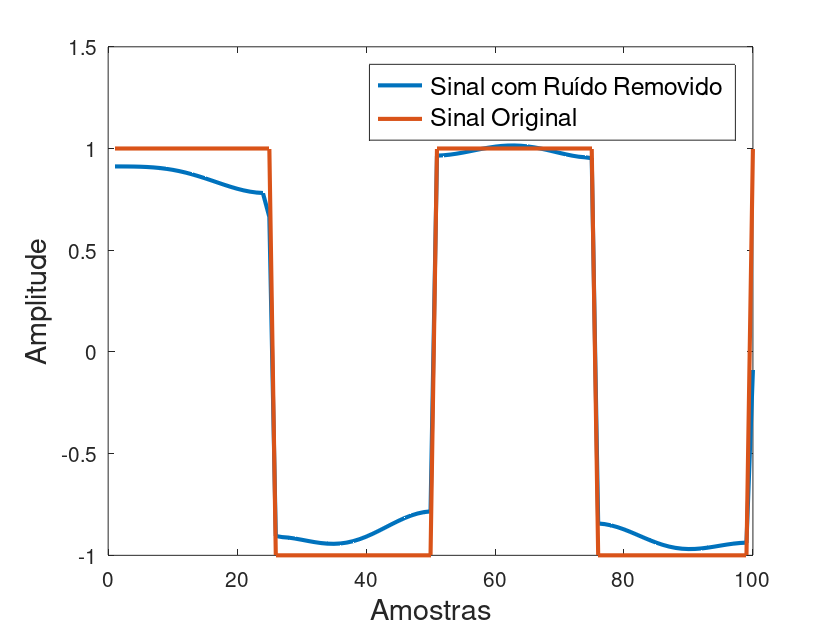
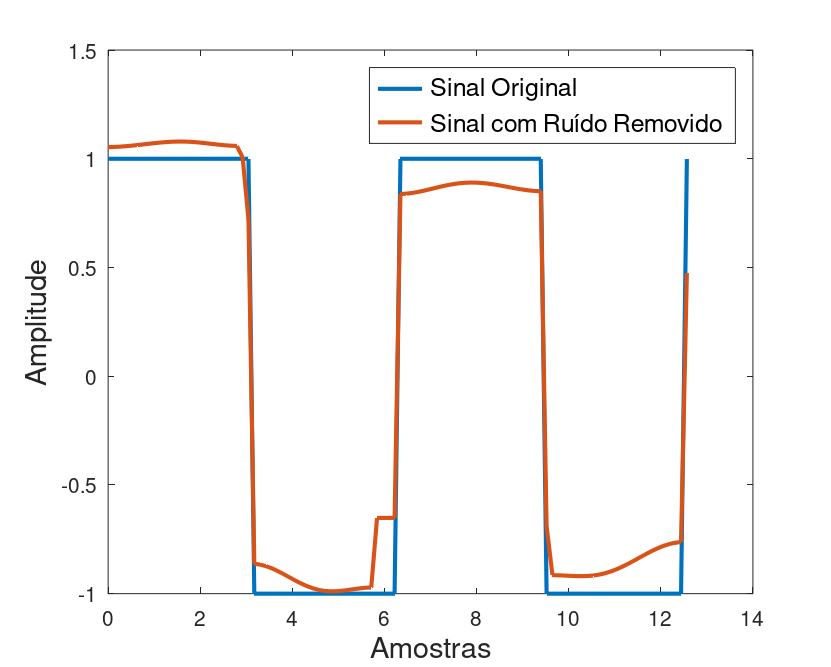
up: font-size: 10

diff --git a/Laplace/testeDenoise.m b/Laplace/testeDenoise.m
@@ -15,7 +15,7 @@ load laplaceRuido.mat
 y = sinal_Laplace_Ruido;
 
 % Parâmetros de entrada
-lambda = 0.57;
+lambda = 0.25;
 Nit = 100;
 
 % Remoção de ruído
@@ -28,7 +28,7 @@ hold on;
 plot(t, x, 'LineWidth', 2); % Aumenta o tamanho da linha da função
 xlabel('Amostras', 'FontSize', 14); % Aumenta o tamanho do label do eixo x
 ylabel('Amplitude', 'FontSize', 14); % Aumenta o tamanho do label do eixo y
-legend('Sinal Original', 'Sinal com Ruído Removido', 'FontSize', 12); % Corrigido a ordem da legenda
+legend('Sinal Original', 'Sinal com Ruído Removido', 'FontSize', 10); % Corrigido a ordem da legenda
 hold off
 
 % Plotando o sinal com ruído e o sinal com ruído removido
